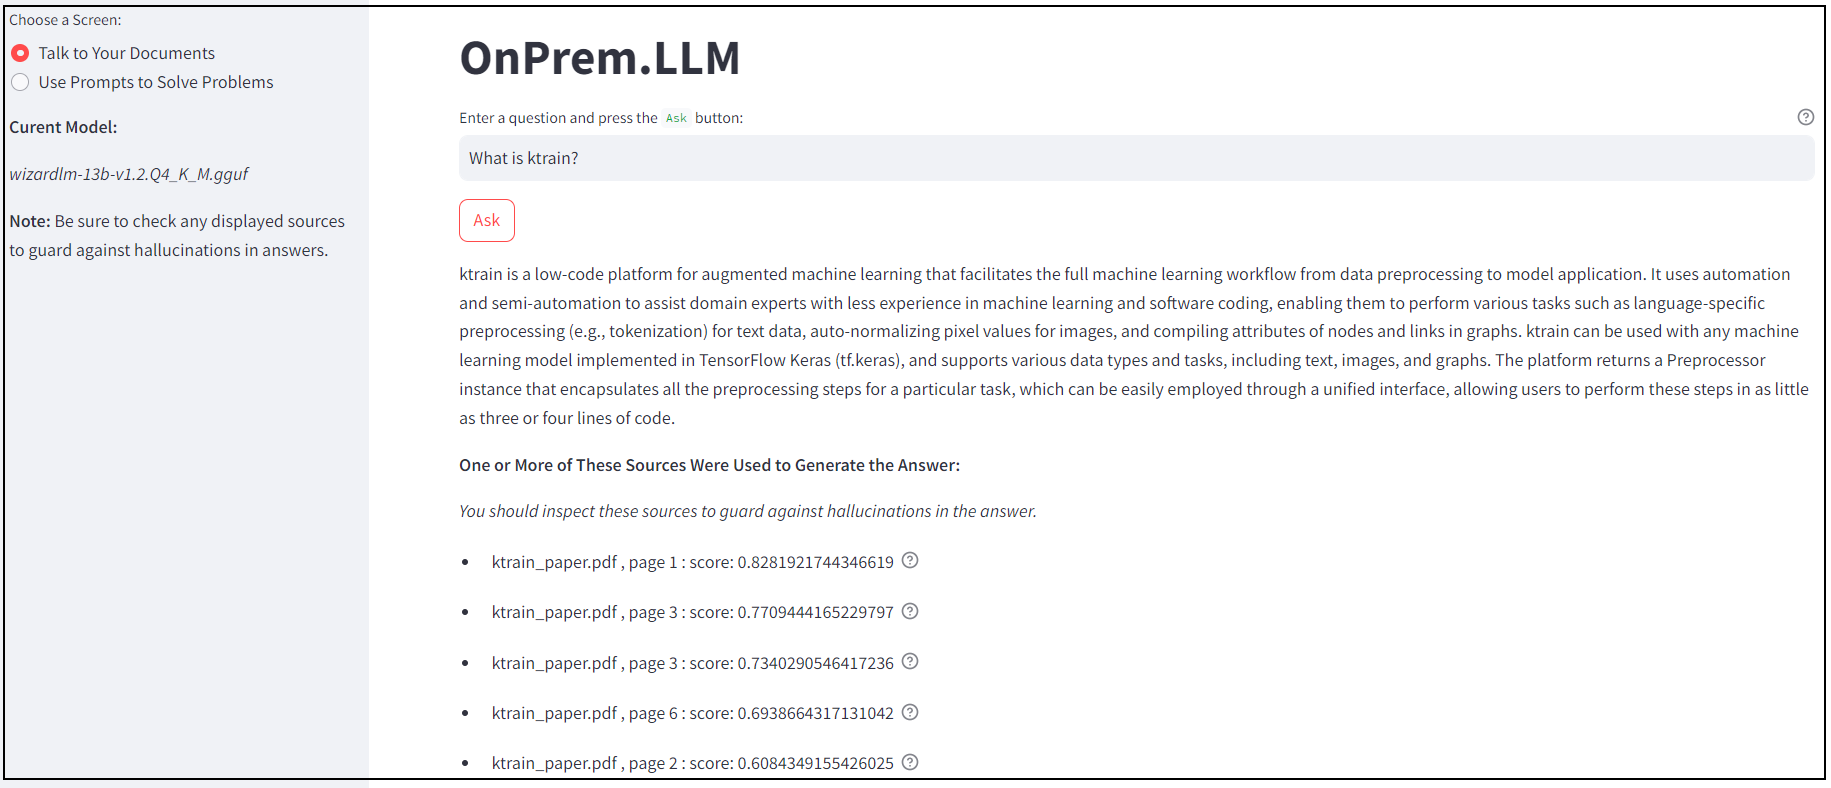
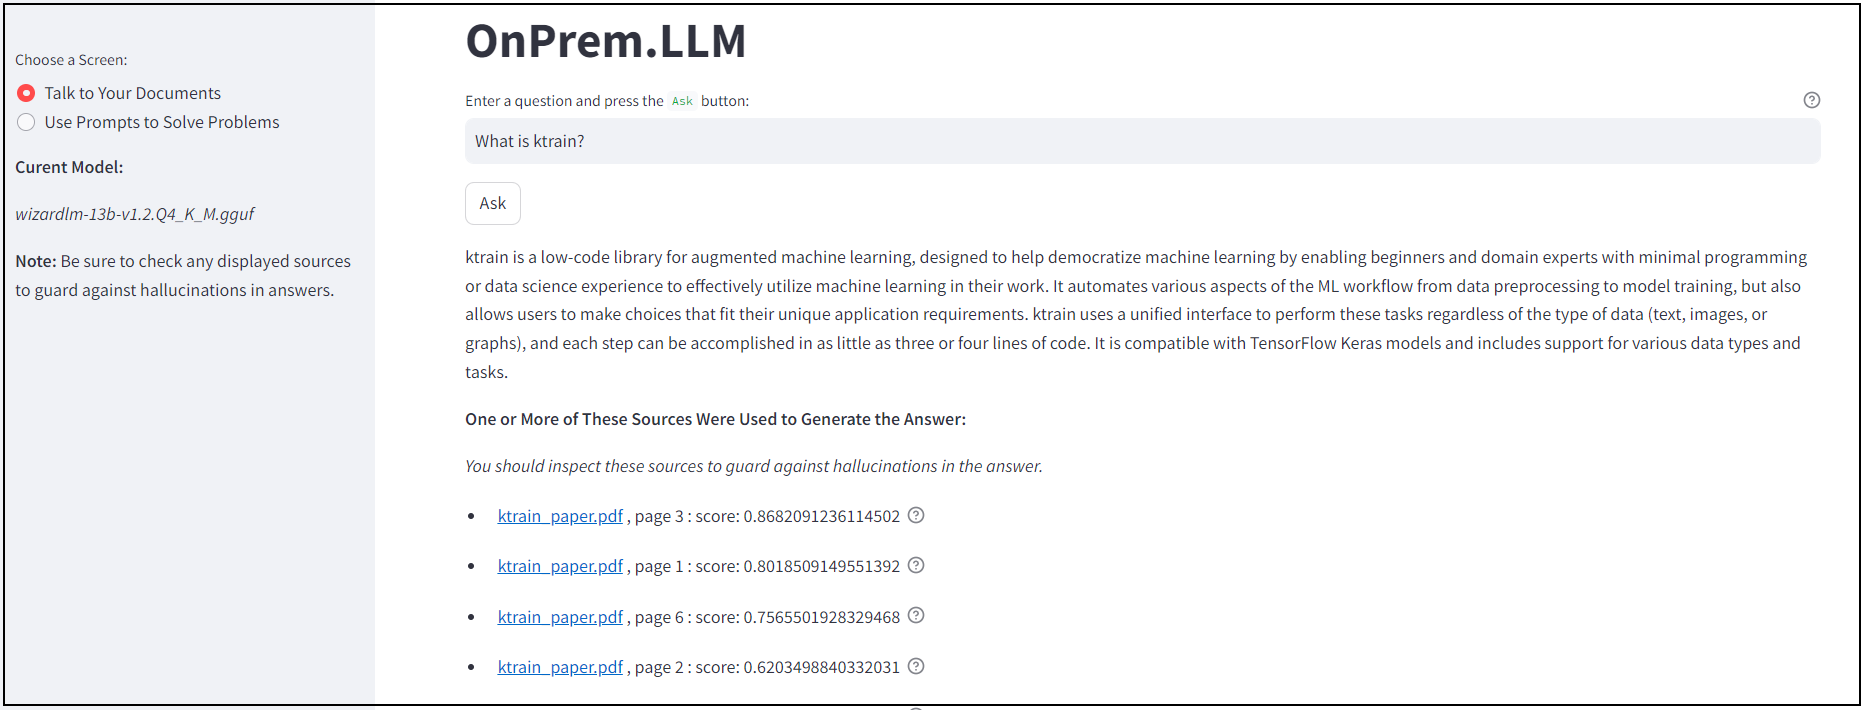
fixes #28

diff --git a/onprem/webapp.py b/onprem/webapp.py
@@ -1,5 +1,6 @@
 import os, yaml
 import numpy as np
+from pathlib import Path
 import streamlit as st
 from langchain.callbacks import StreamlitCallbackHandler
 from langchain.callbacks.base import BaseCallbackHandler
@@ -28,6 +29,10 @@ ui:
   title: OnPrem.LLM
   # subtitle in "Talk to Your Documents" screen
   rag_title:
+  # path to folder containing raw documents (used to construct direct links to document sources)
+  rag_source_path:
+  # base url (used to construct direct links to document sources)
+  rag_base_url:
 """
 DEFAULT_YAML_FNAME = 'webapp.yml'
 DEFAULT_YAML_FPATH = os.path.join(DATADIR, DEFAULT_YAML_FNAME)
@@ -95,6 +100,16 @@ def setup_llm():
     llm.llm.callbacks = [stream_handler]
     return llm
 
+def construct_link(filepath, source_path=None, base_url=None):
+    """
+    constructs a link to a document
+    """
+    filename = os.path.basename(filepath)
+    if source_path is None or base_url is None:
+        return filename
+    relative = str(Path(filepath).relative_to(source_path))
+    link = os.path.join(base_url, relative)
+    return f'[{filename}]({link})'
 
 def main():
     # Page setup
@@ -107,6 +122,8 @@ def main():
     if os.path.exists(os.path.join(U.get_datadir(), 'rag_text.md')):
         with open(os.path.join(U.get_datadir(), 'rag_text.md'), 'r') as f:
             RAG_TEXT = f.read()
+    RAG_SOURCE_PATH = cfg.get('ui', {}).get('rag_source_path', None)
+    RAG_BASE_URL = cfg.get('ui', {}).get('rag_base_url', None)
 
     st.set_page_config(page_title=TITLE, page_icon="🐍", layout="wide")
     st.title(TITLE)
@@ -138,7 +155,7 @@ def main():
                 answer_score = compute_similarity(answer, doc.page_content)
                 question_score = compute_similarity(question, doc.page_content)
                 if answer_score < 0.5 or question_score < 0.3: continue
-                unique_sources.add( (os.path.basename(doc.metadata['source']),
+                unique_sources.add( (doc.metadata['source'],
                                      doc.metadata.get('page', None), doc.page_content, question_score, answer_score))
             unique_sources = list(unique_sources)
             unique_sources.sort(key=lambda tup: tup[-1], reverse=True)
@@ -147,6 +164,7 @@ def main():
                 st.markdown('*You should inspect these sources to guard against hallucinations in the answer.*')
                 for source in unique_sources:
                     fname = source[0]
+                    fname = construct_link(fname, source_path=RAG_SOURCE_PATH, base_url = RAG_BASE_URL)
                     page = source[1] +1 if isinstance(source[1], int) else source[1]
                     content = source[2]
                     question_score = source[3]

diff --git a/onprem/ingest.py b/onprem/ingest.py
@@ -97,6 +97,7 @@ def load_documents(source_dir: str, ignored_files: List[str] = []) -> List[Docum
     """
     Loads all documents from the source documents directory, ignoring specified files
     """
+    source_dir = os.path.abspath(source_dir)
     all_files = []
     for ext in LOADER_MAPPING:
         all_files.extend(

diff --git a/CHANGELOG.md b/CHANGELOG.md
@@ -9,7 +9,7 @@ Most recent releases are shown at the top. Each release shows:
 ## 0.0.21 (under development)
 
 ### new:
-- N/A
+- Support for hyperlinks to sources in RAG screen of  Web app (#28)
 
 ### changed
 - N/A
